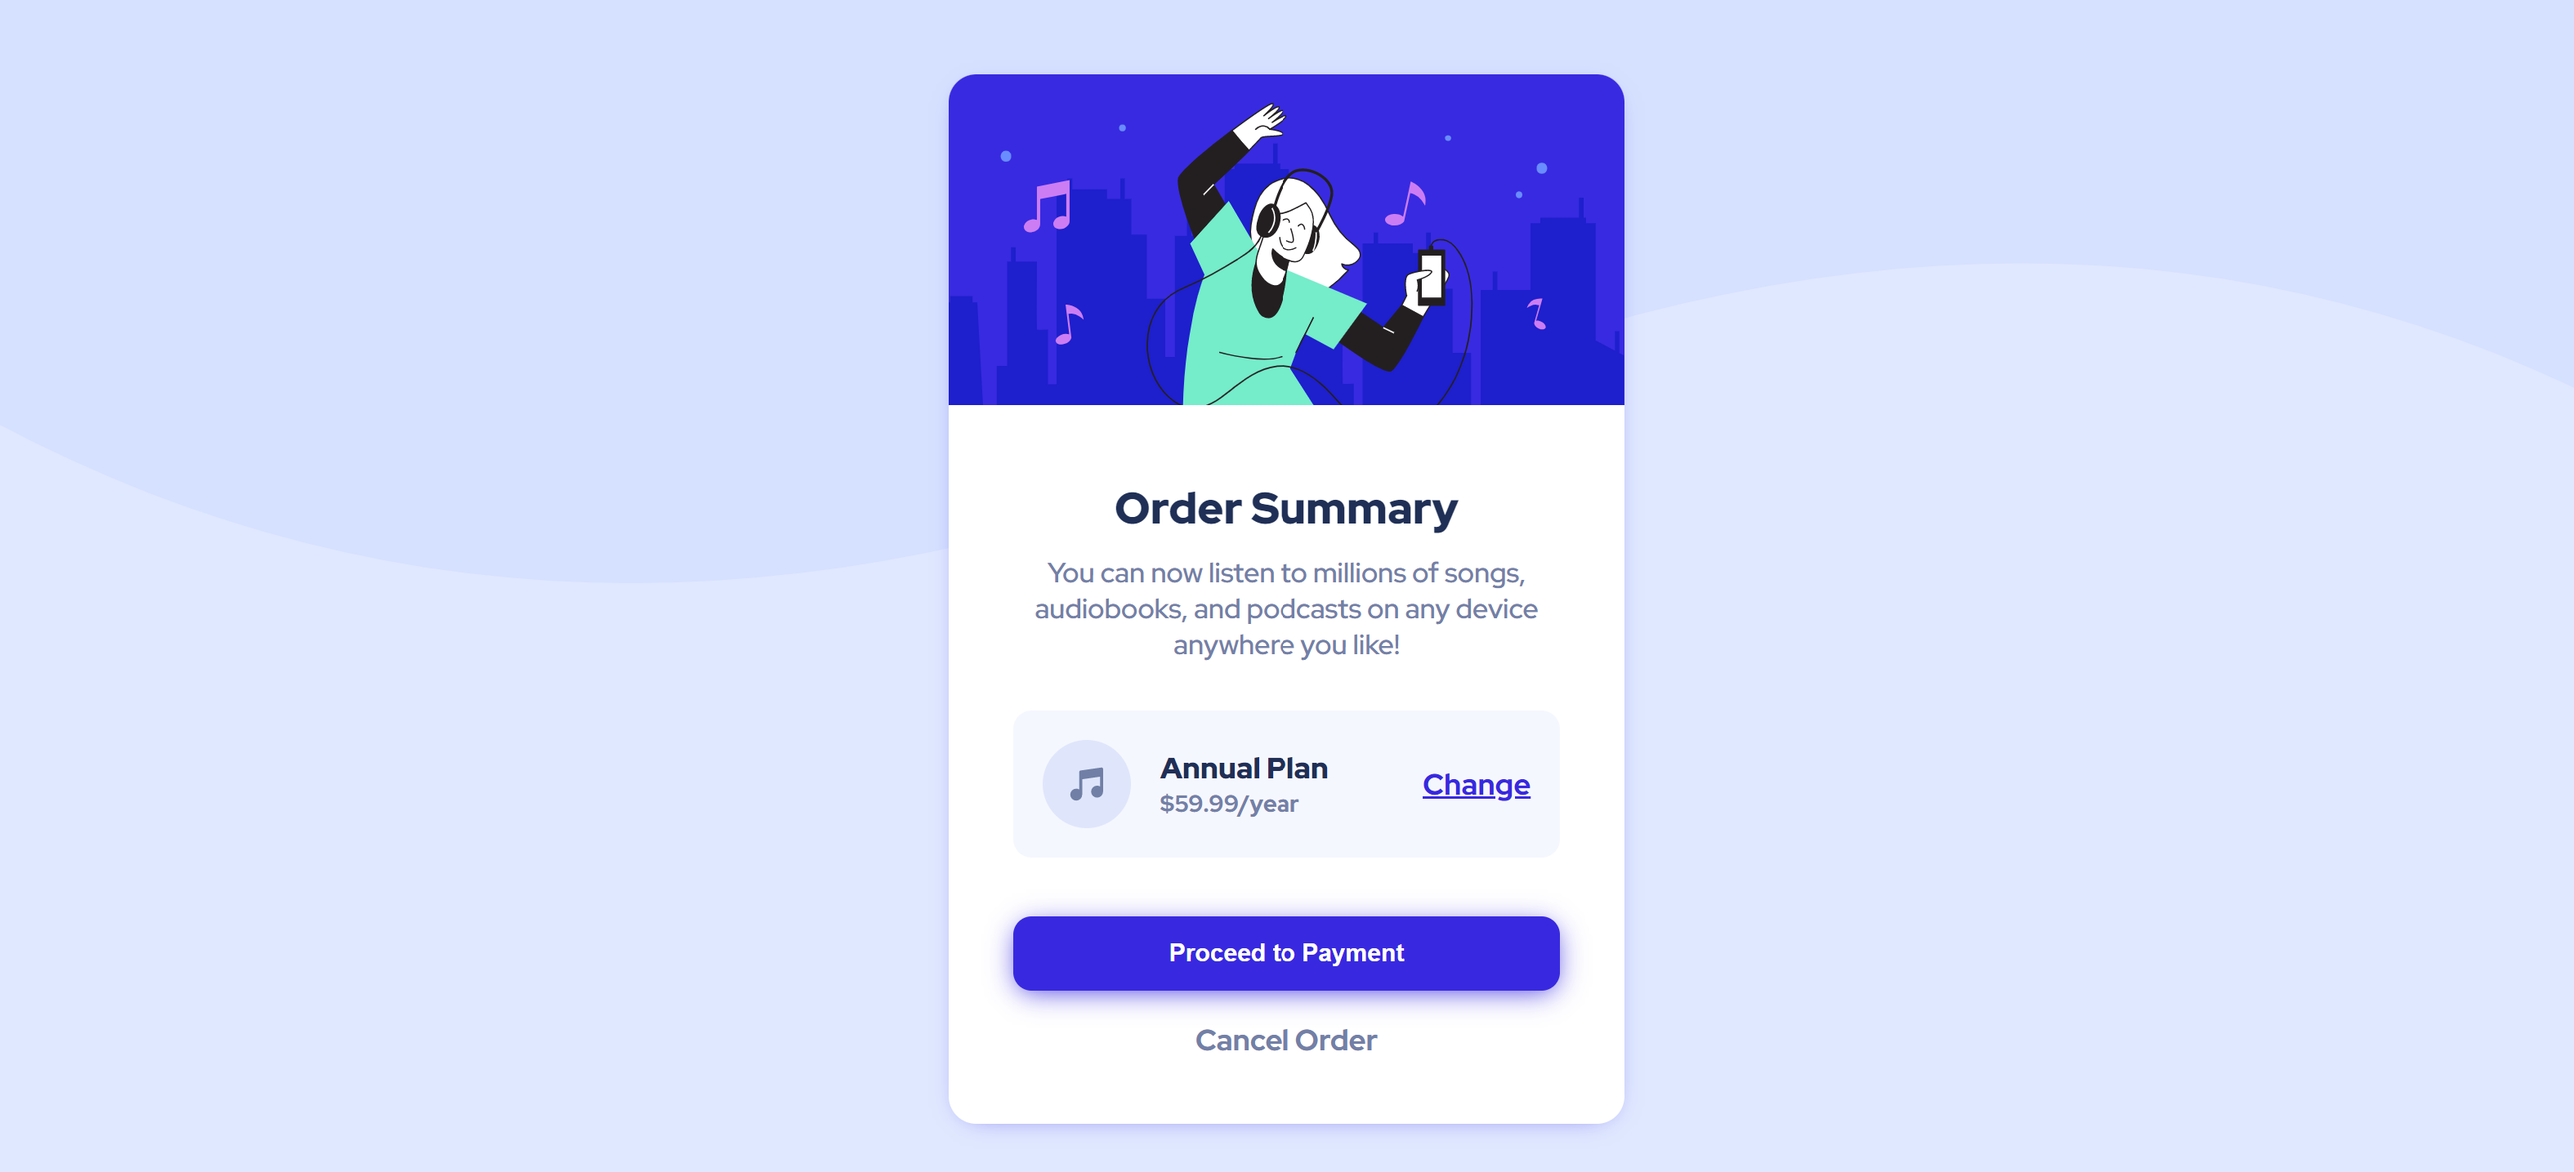
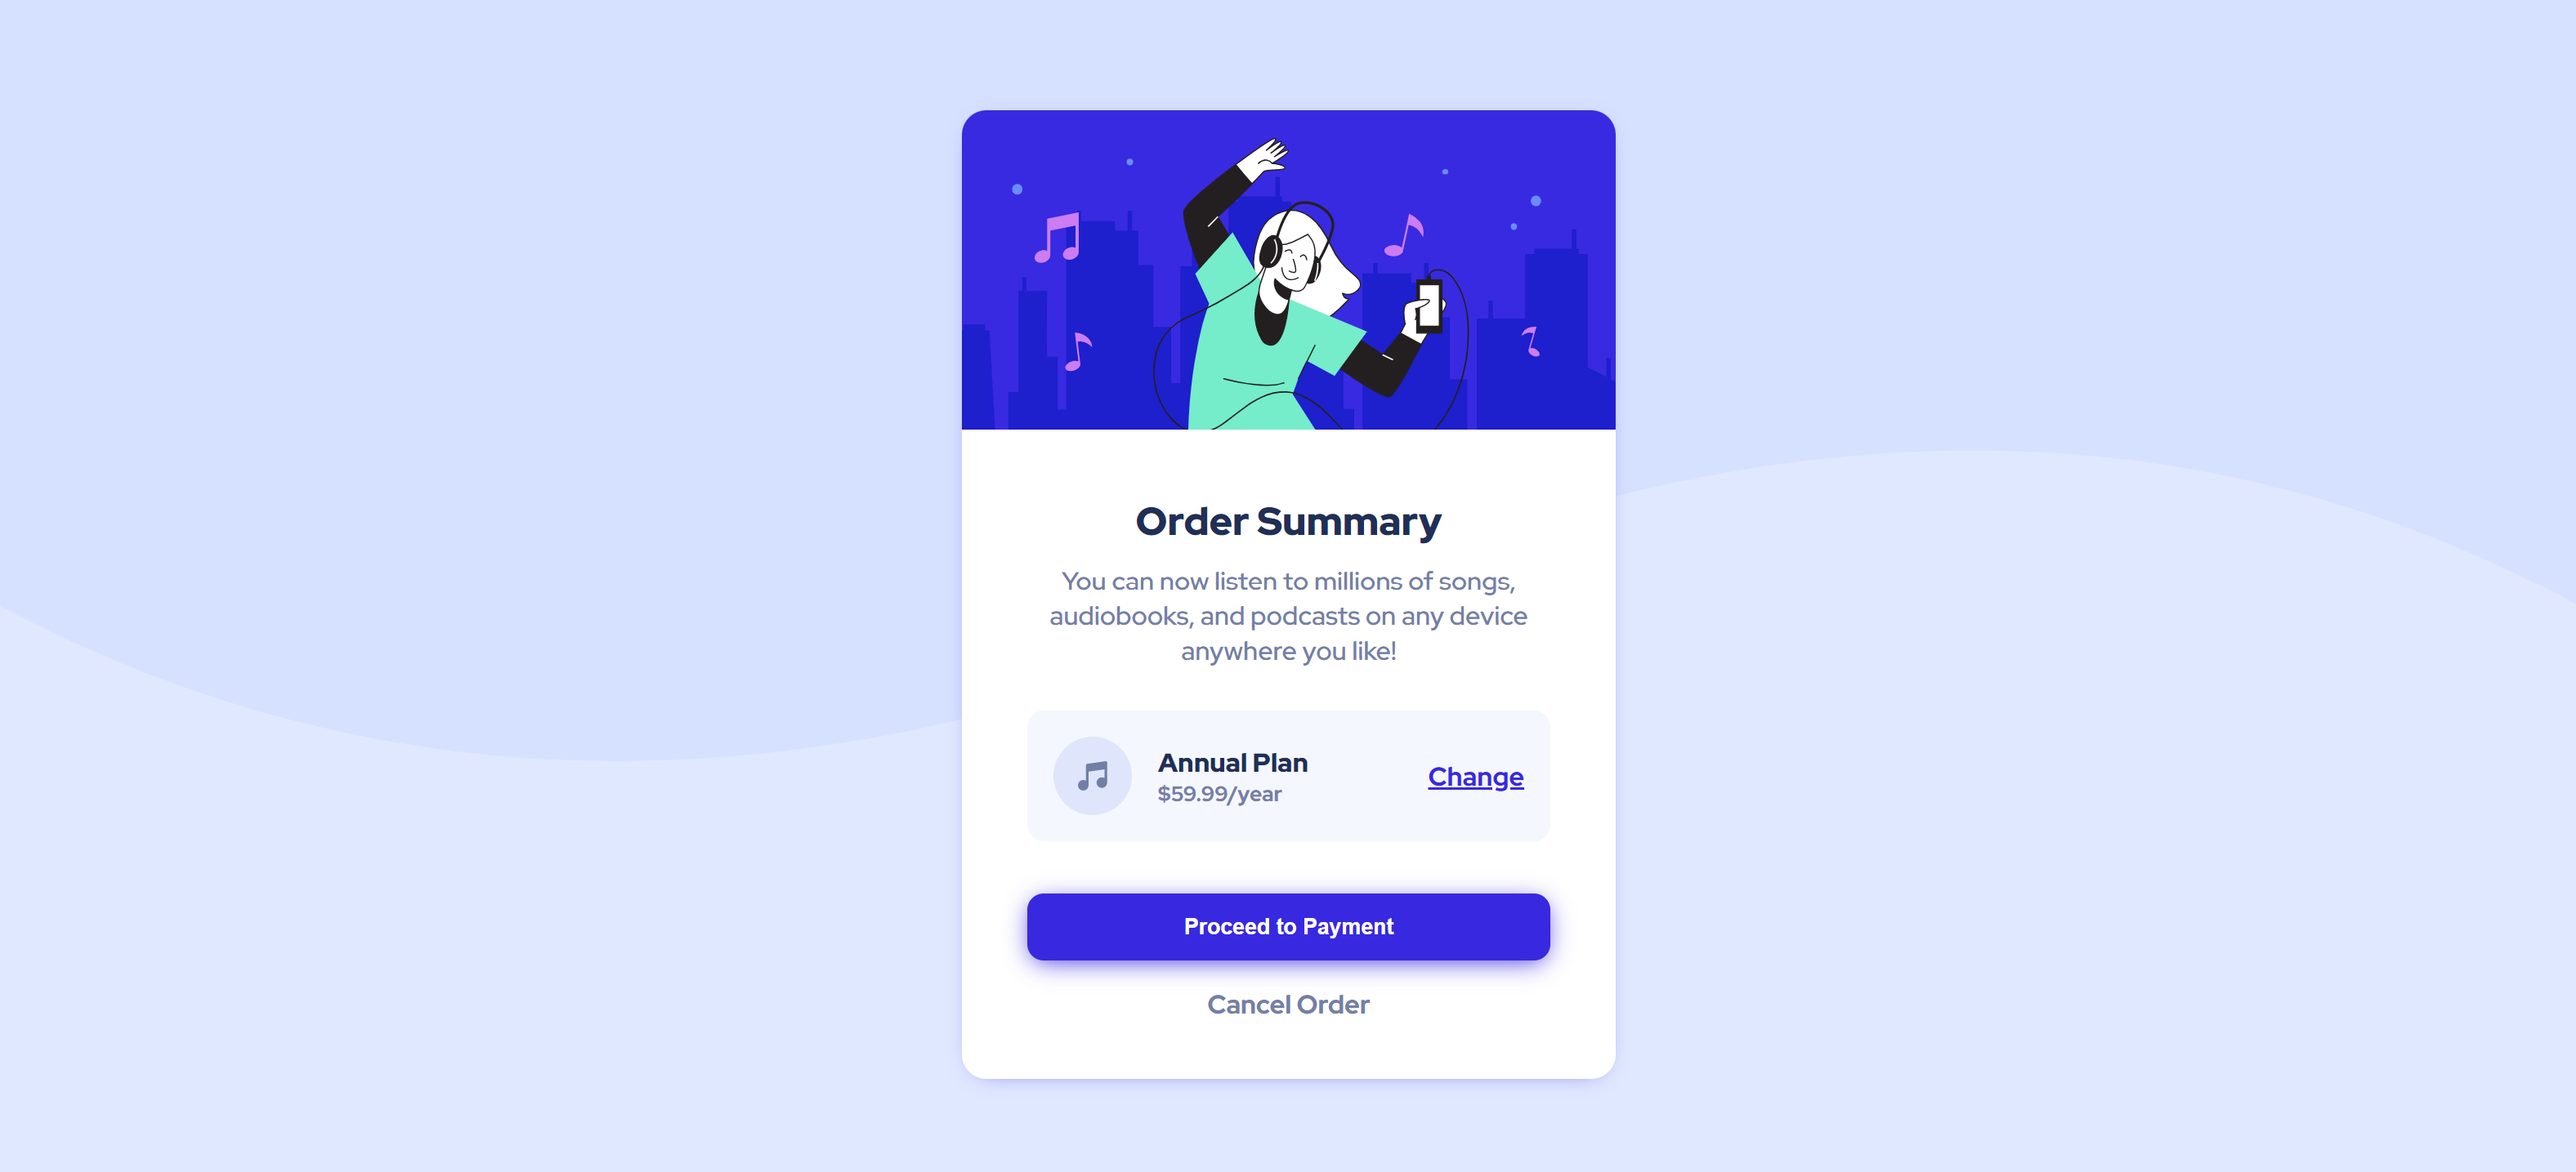
background and readme file edit

diff --git a/styles.css b/styles.css
@@ -1,6 +1,7 @@
 * {
   margin: 0;
   padding: 0;
+  box-sizing: border-box;
 }
 
 :root {
@@ -18,14 +19,15 @@ body {
   align-items: center;
   flex-direction: column;
   background: url(images/pattern-background-desktop.svg) no-repeat;
+  background-position: top;
+  background-size: contain;
   background-color: var(--Pale-blue);
-  font-weight: 500;
 }
 
 .card {
-  max-width: 23rem;
+  max-width: 25rem;
   text-align: center;
-  margin: 10rem;
+  margin: 5rem;
   background-color: white;
   border-radius: 15px;
   -webkit-border-radius: 15px;
@@ -36,9 +38,17 @@ body {
 }
 
 @media (max-width: 375px) {
+  body {
+    background: url(images/pattern-background-mobile.svg) no-repeat;
+  }
   .card {
     width: 90%;
   }
+}
+
+.card p,
+a {
+  font-size: 16px;
 }
 
 .card > img {
@@ -48,7 +58,7 @@ body {
 }
 
 .card .text {
-  padding: 35px;
+  padding: 35px 40px;
 }
 
 .card .text h2 {
@@ -58,7 +68,6 @@ body {
 
 .card .text p {
   padding: 10px;
-  font-size: 15px;
   color: var(--Desaturated-blue);
 }
 

diff --git a/index.html b/index.html
@@ -46,7 +46,7 @@
 
   <div class="attribution">
     Challenge by <a href="https://www.frontendmentor.io?ref=challenge" target="_blank">Frontend Mentor</a>.
-    Coded by <a href="#">Aya Zayed</a>
+    Coded by <a href="https://www.frontendmentor.io/profile/AyaZayed">Aya Zayed</a>
   </div>
 </body>
 
